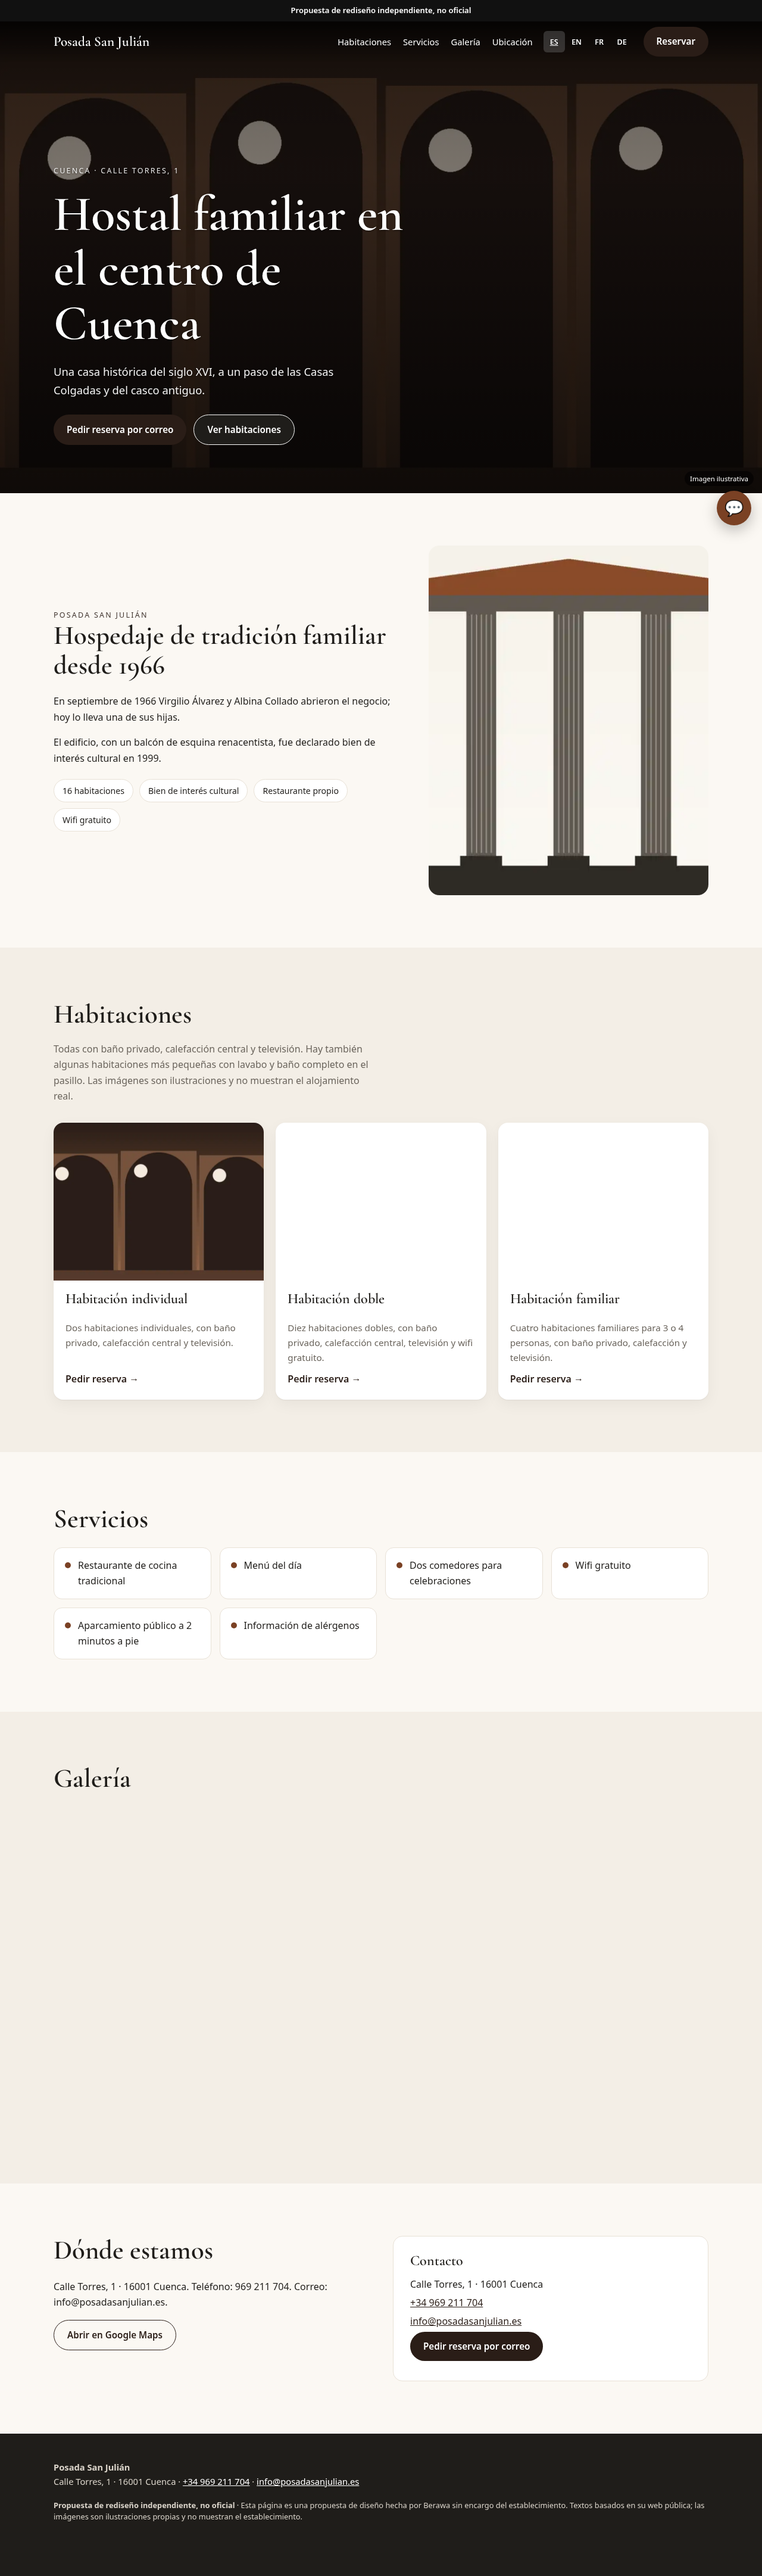
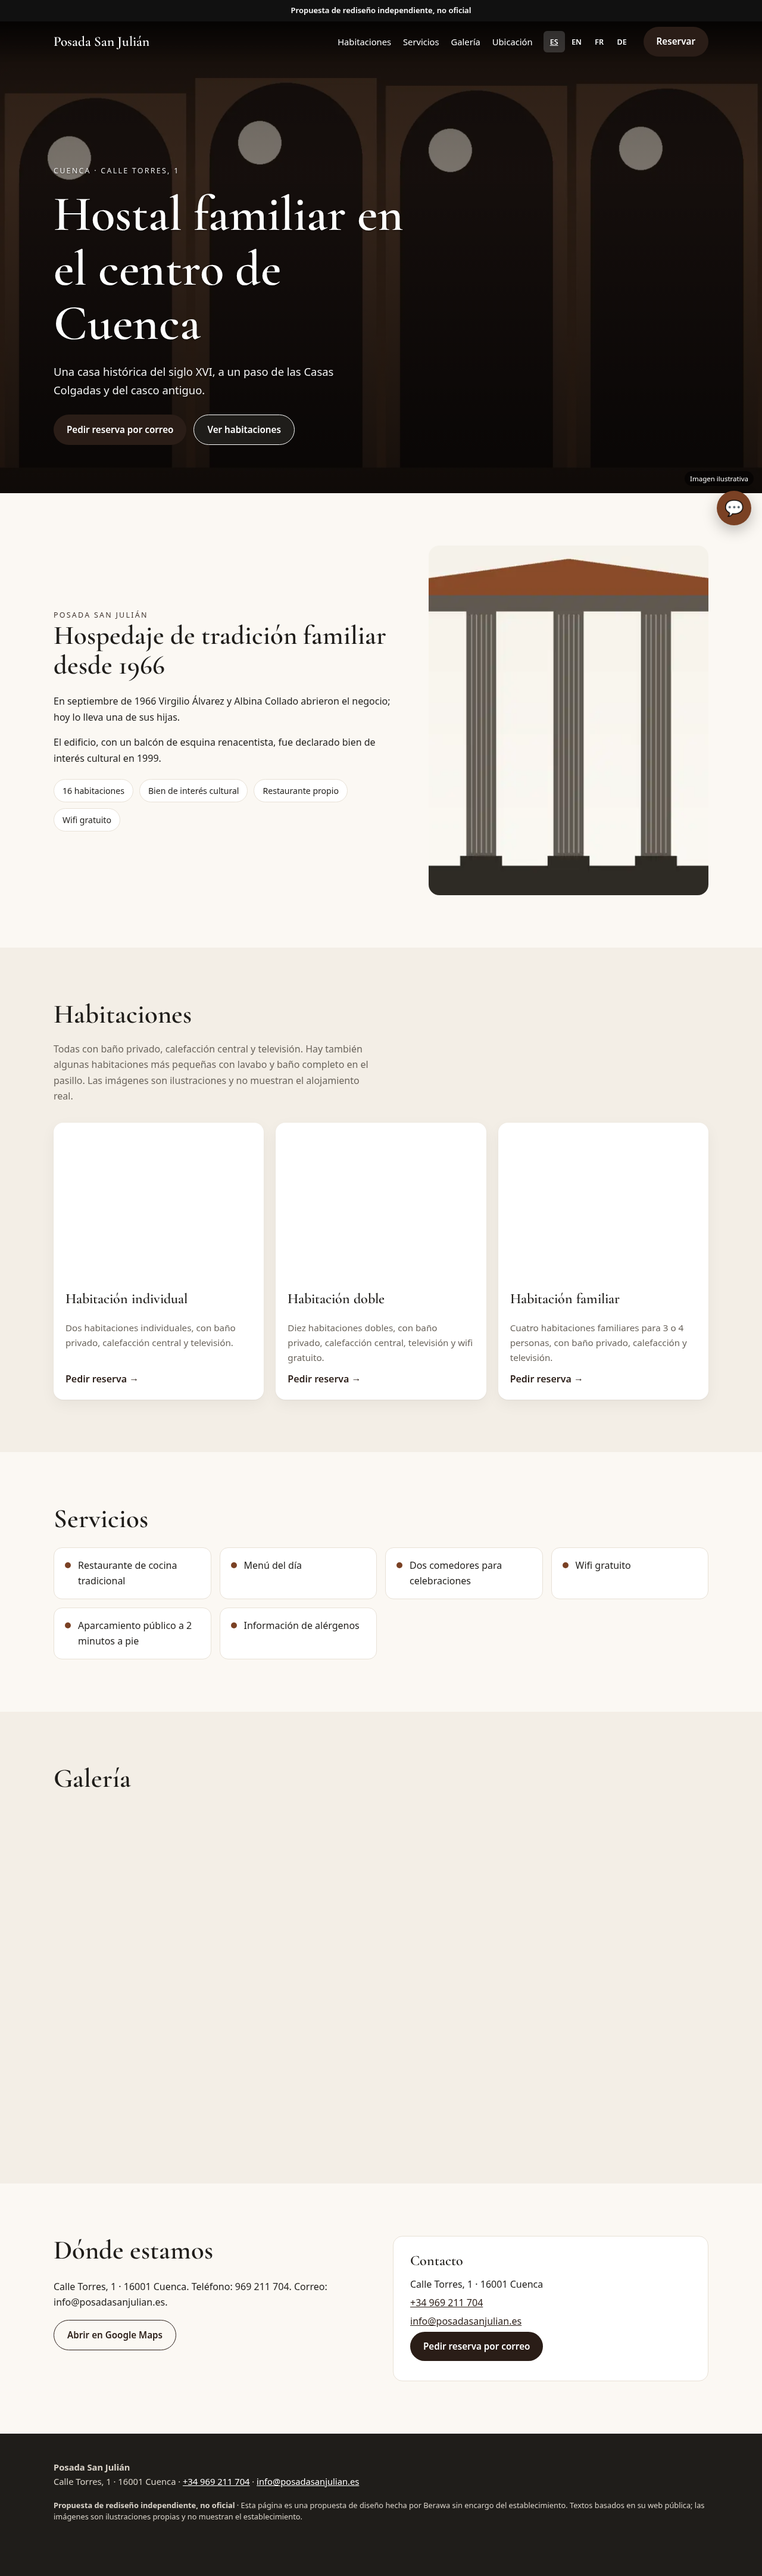
docs: informe QA Grok (A1-A11, C01-C16, Lighthouse) y evidencias tras la correccion

Changed region(s): [[0.0625, 0.437, 0.3438, 0.4994]]

diff --git a/berawa/QA-GROK.md b/berawa/QA-GROK.md
@@ -2,50 +2,50 @@
 
 Autocontrol de fabricación (G04, A1–A11) y checklist C01–C16 (`docs/BERAWA-QA-CHECKLIST.md`) pasados por Grok antes del PR. **No es una auditoría independiente ni una aprobación**: Codex solo audita una muestra y nada se publica ni se envía sin visto bueno de Juan.
 
-- Rama: `demo/hostal-posada-san-julian-cuenca` · HEAD de las pruebas: `c50ec36c2fa223fff03afa8300c2720988eef9d8` · fecha: 02/11/2026 11:06 (Europe/Madrid)
+- Rama: `demo/hostal-posada-san-julian-cuenca` · HEAD de las pruebas: `2be2f6df4f3997e4b540bf77b4e889d83b52faf6` · fecha: 02/11/2026 11:16 (Europe/Madrid)
 - Entorno: Chromium de Playwright (instalado por `playwright install chromium` en el clon limpio), axe-core 4.14.0, Lighthouse 13.6.0 (3 pasadas, mediana).
-- Resultado: **QA_GROK_FAIL**
+- Resultado: **QA_GROK_PASS**
 - Negocio medido: Maps 4.2 (LEIDA, coincide tel, web) · web original: LCP > 4 s · titular EVA ÁLVAREZ COLLADO (autónoma) (persona jurídica, sin cadena).
 
 ## Controles A1–A11
 | Nº | Control | Resultado | Evidencia |
 |---|---|---|---|
-| A1 | Idiomas ES/EN/FR/DE (selector con 4 botones; ningún otro idioma) | **NO** | qa/chat-i18n.json, qa/file-chat-i18n.json (data-t = traducción; alemán completo; sin restos de otros idiomas; un ?lang= no previsto cae a es) |
-| A2 | Chatbot con knowledge.json (citas, cifras, 4+ preguntas por idioma, desconocida, forzar invención, reserva, claves ambiguas = 0) | **NO** | qa/check_kb.txt, qa/chat-i18n.json, keys_test en qa/run_checks-zip.txt y qa/clon-limpio.txt |
+| A1 | Idiomas ES/EN/FR/DE (selector con 4 botones; ningún otro idioma) | **CUMPLE** | qa/chat-i18n.json, qa/file-chat-i18n.json (data-t = traducción; alemán completo; sin restos de otros idiomas; un ?lang= no previsto cae a es) |
+| A2 | Chatbot con knowledge.json (citas, cifras, 4+ preguntas por idioma, desconocida, forzar invención, reserva, claves ambiguas = 0) | **CUMPLE** | qa/check_kb.txt, qa/chat-i18n.json, keys_test en qa/run_checks-zip.txt y qa/clon-limpio.txt |
 | A3 | Accesibilidad: axe sin violaciones (2 viewports × 4 idiomas × inicio/menú/chat), Lighthouse accesibilidad ≥ 95, teclado, contraste sobre foto ≥ 4,5 | **CUMPLE** | qa/axe-teclado.json, qa/contraste.json, qa/lighthouse-3pasadas.json |
 | A4 | Seguridad: sin innerHTML con datos, noopener noreferrer, sin terceros, CSP por meta probada | **CUMPLE** | qa/seguridad.json |
 | A5 | Datos con fuente y fecha; leídas todas las fichas | **CUMPLE** | berawa/sources.json, berawa/evidence/source-text.json, berawa/evidence/captacion.json |
 | A6 | Imágenes: ninguna del negocio; manifiesto con hash, origen y licencia | **CUMPLE** | berawa/asset_manifest.json (todo origin=generated + fuente OFL), LICENSES.md |
-| A7 | Entrega: ZIP determinista, descomprimido y probado por HTTP y file://, idéntico a la rama | **NO** | qa/run_checks-zip.txt, qa/zip/, resumen.json (sha256 del ZIP, 0 ficheros distintos) |
+| A7 | Entrega: ZIP determinista, descomprimido y probado por HTTP y file://, idéntico a la rama | **CUMPLE** | qa/run_checks-zip.txt, qa/zip/, resumen.json (sha256 del ZIP, 0 ficheros distintos) |
 | A8 | Trazabilidad: un commit por bloque; scripts y evidencias commiteados; cambios V1.0 aparte | **CUMPLE** | git log de la rama; berawa/V1.0-CAMBIOS.md |
 | A9 | Precios del chatbot: REGLA DE PRECIOS: CUMPLE | **CUMPLE** | qa/check_kb.txt, qa/check_kb-zip.txt |
-| A10 | Reproducibilidad: clon limpio + dependencias documentadas + run_checks --file en verde; rg /workspace vacío | **NO** | qa/clon-limpio.txt, qa/rg-workspace.txt |
+| A10 | Reproducibilidad: clon limpio + dependencias documentadas + run_checks --file en verde; rg /workspace vacío | **CUMPLE** | qa/clon-limpio.txt, qa/rg-workspace.txt |
 | A11 | git diff --check main...HEAD sin salida | **CUMPLE** | qa/git-diff-check.txt |
 
 ## Checklist C01–C16
 | Código | Control | Resultado | Evidencia |
 |---|---|---|---|
-| C01 | Repositorio y SHA | **CUMPLE** | HEAD del clon limpio = c50ec36c2fa223fff03afa8300c2720988eef9d8 (el SHA final del PR es el del commit que añade este informe) |
+| C01 | Repositorio y SHA | **CUMPLE** | HEAD del clon limpio = 2be2f6df4f3997e4b540bf77b4e889d83b52faf6 (el SHA final del PR es el del commit que añade este informe) |
 | C02 | Identidad y fuentes | **CUMPLE** | nombre, teléfono, dirección y datos comerciales con cita literal en berawa/knowledge.json; titular persona jurídica sin cadena y nota de Maps en berawa/evidence/captacion.json |
 | C03 | Licencias | **CUMPLE** | asset_manifest.json: ilustraciones propias generadas (origin=generated) y fuente Cormorant OFL; ninguna imagen, logo ni vídeo del negocio |
 | C04 | Diseño personalizado y no suplantador | **CUMPLE** | paleta e ilustraciones propias, aviso «Propuesta de rediseño independiente, no oficial» arriba y en el pie, sin logo ni marca del negocio; revisión visual de qa/capturas/ |
-| C05 | Móvil 375 px en navegador real | **NO** | qa/capturas/movil-*.png; desbordamiento horizontal 0 px; axe y teclado en 375 px |
-| C06 | Escritorio 1280 px en navegador real | **NO** | qa/capturas/escritorio-*.png; desbordamiento horizontal 0 px; axe y teclado en 1280 px |
-| C07 | Español completo, botones y chatbot | **NO** | qa/chat-i18n.json (es) |
-| C08 | Alemán completo, botones y chatbot | **NO** | qa/chat-i18n.json (de) |
-| C09 | Inglés completo, botones y chatbot | **NO** | qa/chat-i18n.json (en) |
-| C10 | Francés completo, botones y chatbot | **NO** | qa/chat-i18n.json (fr) |
-| C11 | Chatbot: conocida, sinónimo, desconocida y prohibición de inventar | **NO** | tests por idioma: preguntas conocidas con otras palabras, 2 desconocidas con respuesta «No dispongo de esa información», petición de confirmar disponibilidad (no la confirma) |
+| C05 | Móvil 375 px en navegador real | **CUMPLE** | qa/capturas/movil-*.png; desbordamiento horizontal 0 px; axe y teclado en 375 px |
+| C06 | Escritorio 1280 px en navegador real | **CUMPLE** | qa/capturas/escritorio-*.png; desbordamiento horizontal 0 px; axe y teclado en 1280 px |
+| C07 | Español completo, botones y chatbot | **CUMPLE** | qa/chat-i18n.json (es) |
+| C08 | Alemán completo, botones y chatbot | **CUMPLE** | qa/chat-i18n.json (de) |
+| C09 | Inglés completo, botones y chatbot | **CUMPLE** | qa/chat-i18n.json (en) |
+| C10 | Francés completo, botones y chatbot | **CUMPLE** | qa/chat-i18n.json (fr) |
+| C11 | Chatbot: conocida, sinónimo, desconocida y prohibición de inventar | **CUMPLE** | tests por idioma: preguntas conocidas con otras palabras, 2 desconocidas con respuesta «No dispongo de esa información», petición de confirmar disponibilidad (no la confirma) |
 | C12 | CTA con destinos reales, sin falsa reserva | **CUMPLE** | solo mailto:, tel: y enlaces a páginas de reserva del propio negocio (project.json → book); sin motor propio; sec_scan |
-| C13 | Transparencia: aviso demo no oficial y noindex | **NO** | aviso visible en los 4 idiomas, meta robots noindex,nofollow y robots.txt Disallow: / |
+| C13 | Transparencia: aviso demo no oficial y noindex | **CUMPLE** | aviso visible en los 4 idiomas, meta robots noindex,nofollow y robots.txt Disallow: / |
 | C14 | Seguridad: sin secretos, XSS ni recolección engañosa | **CUMPLE** | qa/seguridad.json; el sitio no recoge datos |
-| C15 | Entrega: ZIP, descomprimir, servir y navegar fuera de GitHub Pages | **NO** | qa/run_checks-zip.txt (HTTP y file:// sobre el ZIP descomprimido) |
+| C15 | Entrega: ZIP, descomprimir, servir y navegar fuera de GitHub Pages | **CUMPLE** | qa/run_checks-zip.txt (HTTP y file:// sobre el ZIP descomprimido) |
 | C16 | Rendimiento medido (Lighthouse 3 pasadas, mediana) | **CUMPLE** | qa/lighthouse-3pasadas.json · SEO < 90 por el `noindex,nofollow` y el `robots.txt` con `Disallow: /` (is-crawlable y robots-txt), exigidos por la V1.0; no se maquilla. |
 
 ## Lighthouse (mediana de 3 pasadas)
 | | Rendimiento | Accesibilidad | Buenas prácticas | SEO |
 |---|---|---|---|---|
-| Móvil | 99 | 100 | 100 | 58 |
+| Móvil | 96 | 100 | 100 | 58 |
 | Escritorio | 100 | 100 | 100 | 58 |
 
 SEO < 90 por el `noindex,nofollow` y el `robots.txt` con `Disallow: /` (is-crawlable y robots-txt), exigidos por la V1.0; no se maquilla.
@@ -53,4 +53,4 @@ SEO < 90 por el `noindex,nofollow` y el `robots.txt` con `Disallow: /` (is-crawl
 ## Límites
 - No probado en Safari ni Firefox ni con lector de pantalla.
 - Las imágenes son ilustraciones propias: no muestran el establecimiento y así se rotulan.
-- Tiempo del autocontrol automático (ZIP, clon limpio, Lighthouse, capturas): 7.2 min.
+- Tiempo del autocontrol automático (ZIP, clon limpio, Lighthouse, capturas): 9.4 min.
